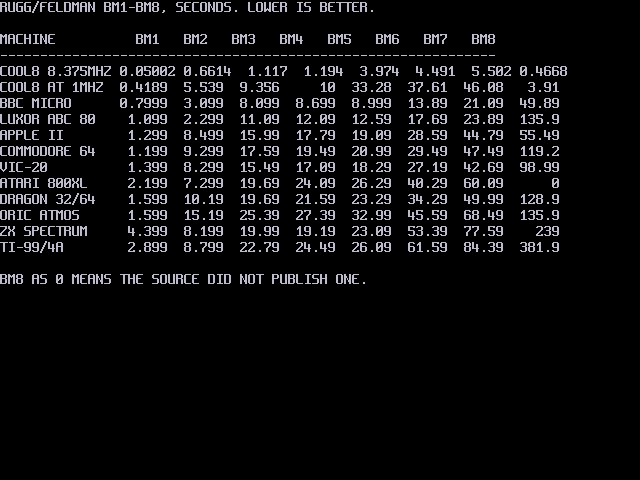
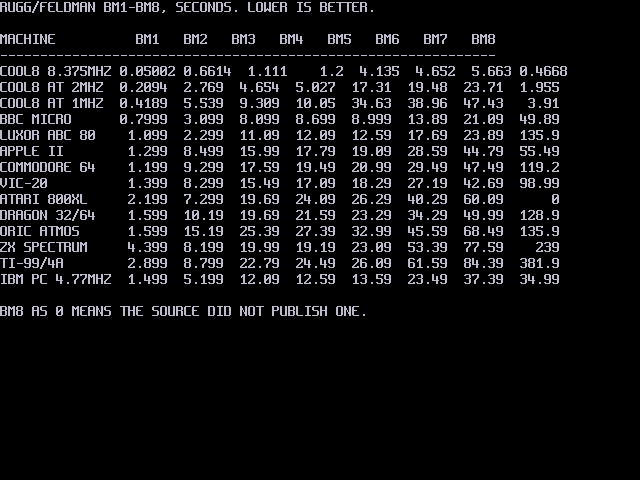
@ A 2 MHz row, an IBM PC, and a literal the float could not hold
## The rows

COOL8 measured at 8.375 MHz, then scaled to 2 MHz and to 1 MHz -- what
it would score clocked like a BBC Micro and like a 6502, which is what
makes the rest of the table a comparison rather than a boast.

**`4.1875` does not survive the parser.** Five significant digits
against a float that carries about four, and the entire 2 MHz row came
out negative -- not small, negative. It is `8.375/2` now: the clock the
machine actually runs at, four digits, and exact.

## The IBM PC

8088 at 4.77 MHz: 1.5 5.2 12.1 12.6 13.6 23.5 37.4 35, from
MikroDatorn 1982 running the same Rugg/Feldman set. **A different
source, so it says so on screen** -- but its VIC-20 row is identical to
the other tables, which is the reason for putting it beside them rather
than a hope that it lines up.

MSX, Amstrad CPC and TRS-80 are in neither table. Still left out.

Gates: 19 suites, check 7.
@

diff --git a/docs/14-demos.md b/docs/14-demos.md
@@ -167,17 +167,25 @@ were written for. **The listings inside the timing are unchanged** — the
 repeat loop is outside them, and `IF K<1000 THEN GOTO 500` is the one
 edit, which this BASIC requires.
 
-**Two rows for this machine, and the second is the honest one.** COOL8
-runs at 8.375 MHz and most of the table is 1–2 MHz, so the second row is
-every time multiplied by 8.375: what it would score clocked like a 6502.
-It beats a C64 on the arithmetic loops and **loses badly on BM5–BM7**,
-which is where `GOSUB` and arrays are — a real result, and where to look
-if the interpreter is ever worth optimising.
+**Three rows for this machine, and the measured one is the least
+interesting.** COOL8 runs at 8.375 MHz against a table of 1–2 MHz
+machines, so the other two scale it to 2 MHz and 1 MHz — what it would
+score clocked like a BBC Micro and like a 6502. At 1 MHz it beats a C64
+on the arithmetic loops (BM3 9.3 against 17.6) and then **loses on
+BM5–BM7**, which is exactly where `GOSUB` and arrays are. A real result,
+and where to look if the interpreter is ever worth optimising.
 
-**Every figure comes from one table**, so they are comparable with each
-other. IBM PC, MSX, Amstrad/Schneider CPC and TRS-80 are not in it and
-are left out rather than filled in from somewhere with a different
-tester, BASIC and stopwatch.
+**`4.1875` does not survive the parser** — five significant digits
+against a float that carries about four, and the whole row came out
+negative. The 2 MHz row is `8.375/2`, which is the clock the machine
+actually runs at and four digits.
+
+**Ten of the figures come from one table** and are comparable with each
+other. The **IBM PC** (8088 at 4.77 MHz) is *MikroDatorn*'s 1982 run of
+the same benchmarks, noted on screen as a different source — its VIC-20
+row matches the other table exactly, which is the reason for trusting it
+beside them. MSX, Amstrad/Schneider CPC and TRS-80 are in neither and
+are left out rather than filled in from a third stopwatch.
 
 **What it took to write says more about the BASIC than the times do:**
 
